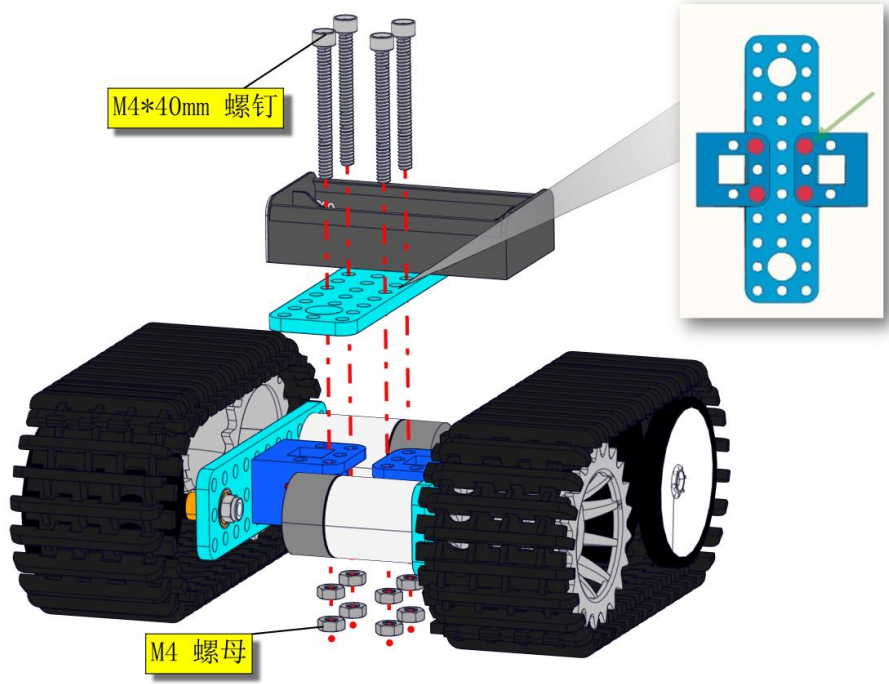
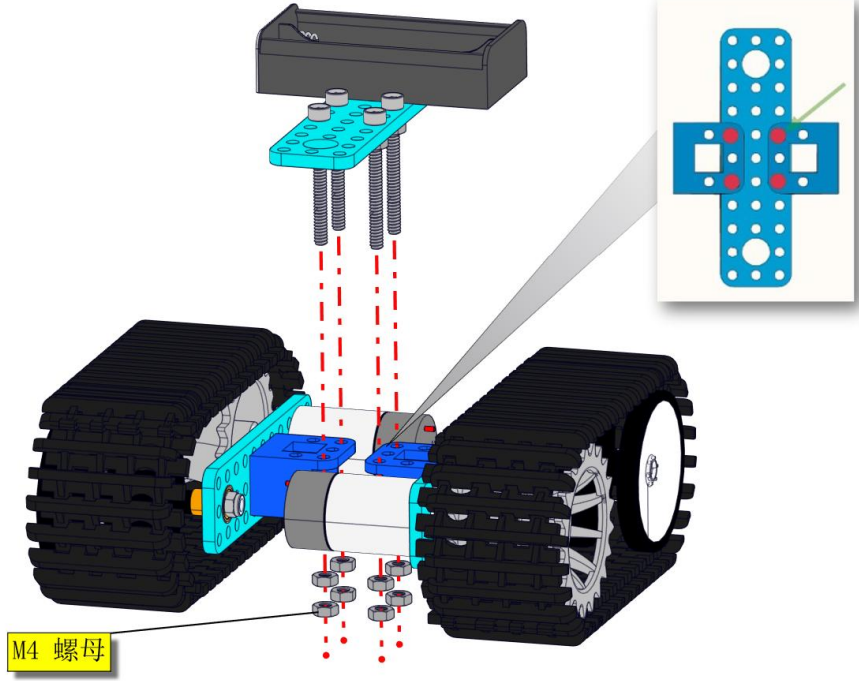
V01-2026-09-21

Changed region(s): [[0.0, 0.0, 1.0, 1.0], [0.9686, 0.0, 1.0, 0.0308], [0.1211, 0.7093, 0.1513, 0.7401]]

diff --git a/docs/坦克机器人安装.md b/docs/坦克机器人安装.md
@@ -210,99 +210,52 @@
 
 **安装11**
 
-安装所需零件
+⚠ <span style="color: rgb(255, 76, 65);">**注意：此步骤需要进行舵机角度的校准，按图示操作**。</span>
 
-![KE0194_09](./media/KE0194_09.png)
+**校准舵机所需额外零件**
 
-安装前需要调节舵机角度，我们需要将舵机调整到90度再安装
+![](./media/D1.png)
 
-| 舵机   | 主板 |
-|--------|------|
-| 棕线   | G    |
-| 红线   | 5V   |
-| 橙黄线 | D10  |
+所需线材：
 
-**舵机接好线之后，先将电池盒的电源线在扩展板上插好，安上电池，再将拨码开关拨至ON端。**
-如下图所示：
+![](./media/2p-200.png)
 
-![image40](./media/img-20250611090009.jpg)
+- 2PIN 母对母杜邦线 颜色随机
 
-电池安装示范
+| 舵机 | 舵机控制模块 |
+| :--: | :----------: |
+| 棕线 |      G       |
+| 红线 |      V       |
+| 橙线 |      S       |
+
+| 舵机控制模块 | 扩展板 |
+| :----------: | :----: |
+|      5V      |   5V   |
+|      G       |   G    |
+
+接线图：
+
+![](./media/D2.png)
+
+电池安装示范:
 
 ![image41](./media/img-202506101549101.png)
 
-⚠特别注意: 初始化舵机角度为90°的代码,
+⚠ <span style="color: rgb(255, 76, 65);">**特别提醒：将电机驱动扩展板上的拨码开关拨到 “ON” 端，给电机驱动扩展板供电。**</span>
 
-请点击下载：[舵机初始化角度_代码](./舵机初始化角度_代码.7z)
+![](./media/image44.png)
 
-![image42](./media/img-20250612082247.png)
+**手指按下这个舵机控制模块上的按钮，舵机就可以转到90°位置。**
 
-**特别提醒: 以下三种方法，根据自己的情况自由选择。**
+![](./media/D3.png)
 
-**方法一：Arduino 代码**
+⚠ <span style="color: rgb(200, 70, 100);">**提醒：按照上面图示完成舵机角度的校准后，请将所接线拆除，无需保留。**</span>
 
-⚠特别提示: 在编写代码并上传之前，必须安装Arduino IDE，请进入链接查看：[ArduinoIDE开发环境设置](https://www.keyesrobot.cn/projects/KE0194P/zh-cn/latest/docs/Arduino_C/Arduino_00_%E4%BB%8B%E7%BB%8D%E4%B8%8E%E5%87%86%E5%A4%87.html)
+**安装12**
 
-``` c
-/*
-  舵机初始化角度_代码
-  http://www.keyes-robot.com
-*/
+安装所需零件
 
-#include <Servo.h>
-Servo myservo;  // 创建舵机类实例
-
-void setup()
-{
-  myservo.attach(10);  //舵机接数字口10
-  myservo.write(0);  // 转动到0角度
-  delay(500); 
-  myservo.write(180);  // 转动到180角度
-  delay(500); 
-  myservo.write(90);  // 转动到90角度
-  delay(500); 
-}
-
-void loop(){
-
-}
-```
-
-如何得到它？
-
-资料提供了调整窗户舵机的代码，请打开并烧录到主板，如下图所示。在文件夹**舵机初始化角度_代码**，打开文件**Servo_Initialization_Angle_Code.ino**。或将上述测试代码复制粘贴到Arduino IDE中。
-
-![image43](./media/img-20250610170215.png)
-
-将上述测试代码上传至主板之后，未发现舵机转动，可以按下主板上的复位键。
-
-**方法二：KidsBlock(Scratch)代码**
-
-⚠特别提示: 在编写代码并上传之前，必须安装 KidsBlock IDE，请进入链接查看：[KidsBlock IDE开发环境设置](https://www.keyesrobot.cn/projects/KE0194P/zh-cn/latest/docs/KidsBlock_Scratch/Scratch_00_%E4%BB%8B%E7%BB%8D%E4%B8%8E%E5%87%86%E5%A4%87.html)
-
-![image44](./media/img-20250610163504.png)
-
-如何得到它？
-
-资料提供了调整窗户舵机的代码，请打开并烧录到主板，如下图所示。在文件夹**舵机初始化角度_代码** ，使用 KidsBlock IDE 打开文件**舵机初始化角度_代码.sb3**。或在KidsBlockIDE中直接拖动代码块编写上述测试代码。
-
-![image45](./media/img-20250610164209.png)
-
-上传上述测试代码，未发现舵机转动，可以按下主板上的复位键。
-
-**方法三：Mixly代码**
-
-⚠特别提示: 在编写代码并上传之前，必须安装 Mixly IDE，请进入链接查看：[MixlyIDE开发环境设置](https://www.keyesrobot.cn/projects/KE0194P/zh-cn/latest/docs/Mixly/Mixly_00_%E4%BB%8B%E7%BB%8D%E4%B8%8E%E5%87%86%E5%A4%87.html)
-
-![image46](./media/img-20250619140536.png)
-
-如何得到它？
-
-资料提供了调整窗户舵机的代码，请打开并烧录到主板，如下图所示。在文件夹**舵机初始化角度_代码** ，使用 Mixly IDE 打开文件**舵机初始化角度_代码.sb3**。或在KidsBlock IDE中直接拖动代码块编写上述测试代码。
-
-![image47](./media/img-20250619141648.png)
-
-上传上述测试代码，未发现舵机转动，可以按下主板上的复位键。
+![KE0194_09](./media/KE0194_09.png)
 
 分步安装1
 
@@ -316,7 +269,7 @@ void loop(){
 
 ![image50](./media/6c55458d368334937ff59b0dd915945e.jpeg)
 
-**安装12**
+**安装13**
 
 安装所需零件
 

diff --git a/docs/产品介绍.md b/docs/产品介绍.md
@@ -79,6 +79,9 @@
 | 45   | L型 M1.5 M2.5 M3 镀镍 内六角扳手                             | 1        | ![image-20260615114551421](media/image-20260615114551421.png) |
 | 46   | M3\*4MM 机米螺丝                                             | 2        | ![image-20260615114629560](media/image-20260615114629560.png) |
 | 47   | M3+M4 小扳手                                                 | 1        | ![image54](media/b73856ab88c907ff62179ffb168d8400.png)       |
+| 48 | 舵机控制模块  | 1 | ![](./media/MD0798.png) |
+| 49 | 母对母杜邦线(颜色任意)  | 4 | ![](./media/2p200.png) |
+| 50 | 18650电池<span style="color: rgb(255, 76, 65);">(自己提供)</span>  | 2 | ![](./media/battery.png) |
 
 ## 1.4 特点
 
